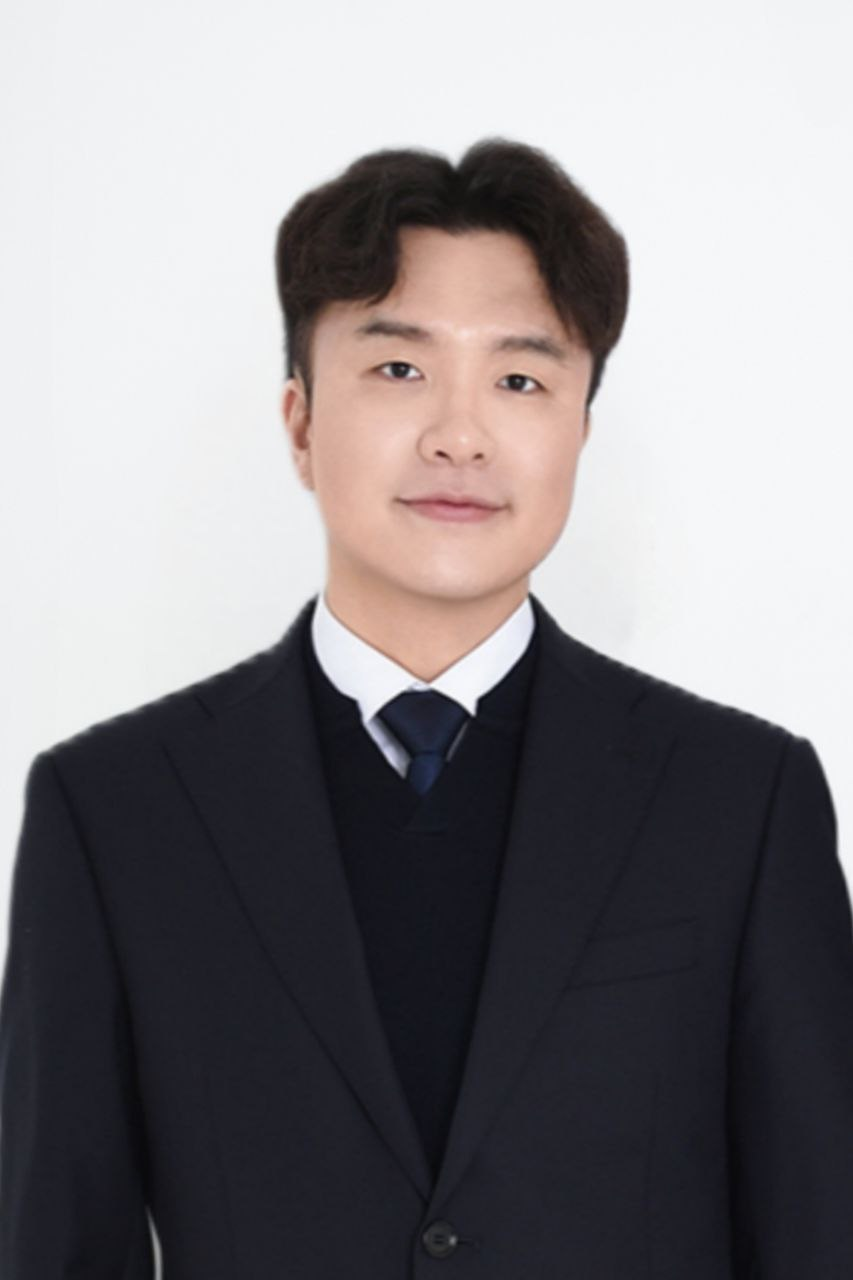
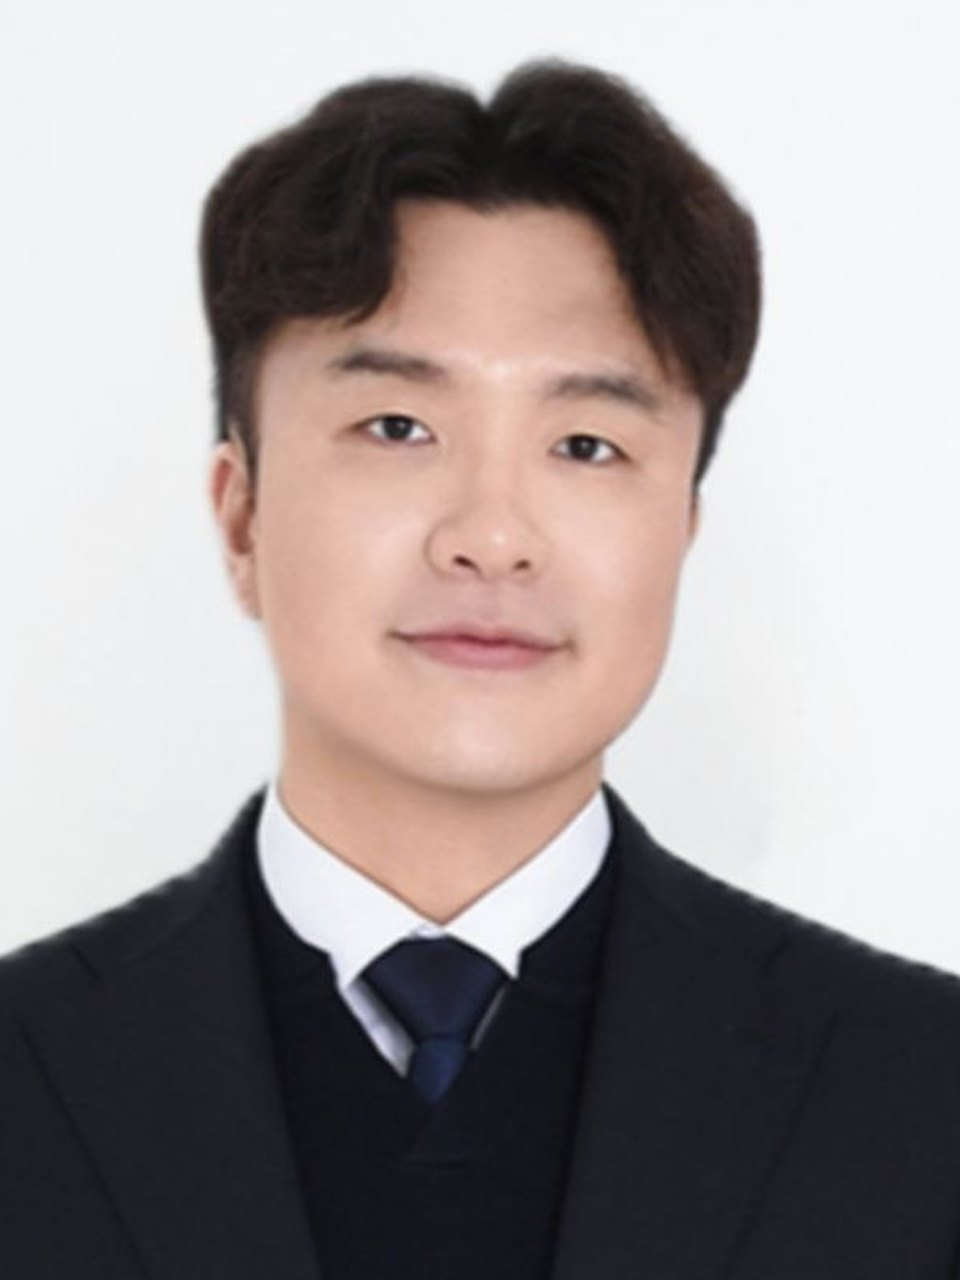
People 에 학부연구생 셋을 올린다 — 사진은 한 틀에 맞춘 사본으로
이세연 · 조성필 · 최우진(학부연구생). 명단은 사진 · 이름 · 직함 · 관심 주제 한 줄.
관심 주제는 연구실 분야에 맞춘 초안이라 학생이 정하면 people.ts 에서 고친다.

사진 — 증명사진은 프레임·얼굴 크기·눈높이가 제각각이라 그대로 두면 명단이 아니라
짜깁기로 보인다. scripts/fit-portrait.py 가 얼굴을 재서(macOS Vision, 로컬) 같은
3:4 틀에 얼굴 폭 0.53 · 눈높이 0.34 로 맞춘다. 배율이 얼굴로 정해지니 어깨도 그
사람 비율 그대로다. 교수님 사진도 같은 틀로 다시 냈다 — 원본 얼굴이 틀의 0.375 로
여유로워 그 기준으로 학생 사진을 축소하면 가슴 아래에 없는 부분을 늘려 채워야
했다(정장이 줄무늬가 됐다). OpenCV Haar 는 머리카락이 섞여 10% 넘게 흔들려 버렸다.

원본은 pic/ 에 두고 git 이 무시한다. verify 전부 · portrait:check · People JS 는
배경 도로 하나(변경 없음).

diff --git a/src/data/people.ts b/src/data/people.ts
@@ -23,6 +23,8 @@ export interface Person {
   experience?: CVEntry[];
   /** 연구 관심사 — research.ts 의 id 를 참조. */
   interests?: string[];
+  /** 관심 주제 — 학생은 연구분야 id 가 아니라 제 말로 적는다. 명단에 낱말 줄로 선다. */
+  topics?: I18nText[];
 }
 
 export const PI: Person = {
@@ -101,10 +103,53 @@ export const PI: Person = {
 };
 
 /**
- * 연구실은 2026년 3월 개설. 기존 사이트에 학생 명단이 없어 비어 있다.
- * 구성원이 생기면 여기에 추가하면 People 페이지에 자동으로 렌더된다.
+ * 연구실은 2026년 3월 개설. 첫 학부연구생 셋(2026.09). 사진은 `pic/` 의 원본을
+ * `scripts/fit-portrait.py` 로 교수님 사진과 같은 얼굴 폭·눈높이의 3:4 틀에 맞춘
+ * 사본이다 — 원본을 그대로 넣지 마라(프레임·얼굴 크기가 제각각이라 명단이 아니라
+ * 짜깁기로 보인다). 관심 주제는 학생과 상의한 문안이 아니라 연구실 분야에 맞춰 둔
+ * 초안이다 — 학생이 정하면 여기서 고친다.
  */
-export const MEMBERS: Person[] = [];
+/** 학부연구생 공통 직함. 학생이 더 생기면 같은 값을 쓴다. */
+const UNDERGRAD: I18nText = { en: 'Undergraduate Researcher', ko: '학부연구생' };
+
+export const MEMBERS: Person[] = [
+  {
+    id: 'lee-seyeon',
+    name: { en: 'Lee Seyeon', ko: '이세연' },
+    latin: 'Lee, S.',
+    role: UNDERGRAD,
+    photo: '/images/people/lee-seyeon.jpg',
+    topics: [
+      { en: 'Traffic simulation', ko: '교통 시뮬레이션' },
+      { en: 'Mixed autonomy traffic', ko: '자율주행 혼합교통' },
+      { en: 'Data-driven traffic analysis', ko: '교통 데이터 분석' },
+    ],
+  },
+  {
+    id: 'jo-sungpil',
+    name: { en: 'Jo Sungpil', ko: '조성필' },
+    latin: 'Jo, S.',
+    role: UNDERGRAD,
+    photo: '/images/people/jo-sungpil.jpg',
+    topics: [
+      { en: 'Reinforcement learning for signal control', ko: '강화학습 기반 신호 제어' },
+      { en: 'Ramp metering', ko: '램프 미터링' },
+      { en: 'Deep learning', ko: '딥러닝' },
+    ],
+  },
+  {
+    id: 'choi-woojin',
+    name: { en: 'Choi Woojin', ko: '최우진' },
+    latin: 'Choi, W.',
+    role: UNDERGRAD,
+    photo: '/images/people/choi-woojin.jpg',
+    topics: [
+      { en: 'Connected vehicles (V2X)', ko: 'V2X 커넥티드 차량' },
+      { en: 'Cooperative driving', ko: '협력 주행' },
+      { en: 'Vehicle trajectory data', ko: '차량 궤적 데이터' },
+    ],
+  },
+];
 
 export const ALUMNI: Person[] = [];
 

diff --git a/scripts/face-metrics.swift b/scripts/face-metrics.swift
@@ -1,0 +1,45 @@
+// 얼굴 상자와 두 눈의 위치를 JSON 으로 낸다 — macOS Vision(로컬, 네트워크 없음).
+//   swift scripts/face-metrics.swift <사진>
+// 좌표는 픽셀, 원점은 **왼쪽 위**(Vision 의 왼쪽 아래 정규 좌표를 뒤집는다).
+// Haar 캐스케이드는 상자에 머리카락·이마가 섞여 사람마다 들쭉날쭉했다 — 얼굴 크기를
+// 맞추는 기준으로 쓰기엔 편차가 컸다. Vision 의 상자는 얼굴(이마~턱, 볼~볼)에 붙는다.
+import Foundation
+import Vision
+import AppKit
+
+let args = CommandLine.arguments
+guard args.count >= 2, let img = NSImage(contentsOfFile: args[1]),
+      let cg = img.cgImage(forProposedRect: nil, context: nil, hints: nil) else {
+  FileHandle.standardError.write("cannot read image\n".data(using: .utf8)!)
+  exit(2)
+}
+let W = CGFloat(cg.width), H = CGFloat(cg.height)
+let req = VNDetectFaceLandmarksRequest()
+try VNImageRequestHandler(cgImage: cg, options: [:]).perform([req])
+guard let faces = req.results, !faces.isEmpty else {
+  FileHandle.standardError.write("no face\n".data(using: .utf8)!)
+  exit(3)
+}
+let f = faces.max(by: { $0.boundingBox.width < $1.boundingBox.width })!
+let b = f.boundingBox
+func px(_ p: CGPoint) -> [String: Double] {  // 얼굴 상자 안의 정규 좌표 → 픽셀(왼쪽 위 원점)
+  let x = (b.origin.x + p.x * b.width) * W
+  let y = (1 - (b.origin.y + p.y * b.height)) * H
+  return ["x": Double(x), "y": Double(y)]
+}
+func center(_ r: VNFaceLandmarkRegion2D?) -> [String: Double]? {
+  guard let r = r, r.pointCount > 0 else { return nil }
+  let pts = r.normalizedPoints
+  let mx = pts.map { $0.x }.reduce(0, +) / CGFloat(pts.count)
+  let my = pts.map { $0.y }.reduce(0, +) / CGFloat(pts.count)
+  return px(CGPoint(x: mx, y: my))
+}
+var out: [String: Any] = [
+  "w": Double(W), "h": Double(H),
+  "face": ["x": Double(b.origin.x * W), "y": Double((1 - b.origin.y - b.height) * H),
+           "w": Double(b.width * W), "h": Double(b.height * H)],
+]
+if let l = center(f.landmarks?.leftEye) { out["leftEye"] = l }
+if let r = center(f.landmarks?.rightEye) { out["rightEye"] = r }
+let data = try JSONSerialization.data(withJSONObject: out)
+print(String(data: data, encoding: .utf8)!)

diff --git a/scripts/fit-portrait.py b/scripts/fit-portrait.py
@@ -1,0 +1,153 @@
+#!/usr/bin/env python3
+"""
+인물 사진을 한 틀에 맞춘다 — 얼굴 크기와 눈높이가 전원 같아지게.
+
+  python3 scripts/fit-portrait.py <입력.jpg|png|heic> <출력.jpg> [--ref public/images/pi.jpg]
+
+증명사진은 사람마다 프레임·얼굴 크기·눈높이가 다르다. 그대로 나란히 놓으면
+한 사람은 크고 한 사람은 작아 명단이 아니라 짜깁기로 보인다. 이 스크립트는
+얼굴을 검출해 **기준 사진(교수님)** 과 같은 얼굴 폭·눈높이가 되도록 확대·축소하고
+같은 3:4 틀로 잘라 낸다. 얼굴에 맞춰 배율을 정하니 몸(어깨)도 그 사람의 비율
+그대로 따라간다 — 얼굴만 키우거나 어깨만 좁히는 일이 없다.
+
+틀을 벗어나는 자리는 **가장자리 픽셀을 늘려** 채우고 그 띠만 흐린다 — 단색으로
+채웠더니 증명사진 배경의 미세한 그라디언트와 어긋나 이음새가 선으로 보였다.
+
+얼굴·눈은 macOS Vision(`scripts/face-metrics.swift`, 로컬)으로 잰다. OpenCV Haar
+상자는 머리카락·이마가 섞여 사람마다 편차가 커서(같은 사진을 다시 재도 10% 넘게
+흔들렸다) 얼굴 크기를 맞추는 기준으로는 못 썼다. Vision 이 없으면 Haar 로 물러난다.
+
+기준값은 `--ref` 사진에서 매번 다시 잰다 — 숫자를 박아 두면 기준 사진을 바꿀 때
+어긋난다. 단, 지금 사이트의 넷은 `--face 0.53 --eye 0.34` 로 맞췄다: 교수님 원본은
+얼굴이 틀의 0.375 로 여유롭게 찍혔고 학생 사진들은 0.41~0.49 로 타이트해서, 교수님
+기준으로 맞추면 학생 사진을 **축소**해야 하고 가슴 아래에 없는 부분을 채워야 했다
+(늘린 정장이 줄무늬가 된다). 넷 중 가장 타이트한 사진이 채움 없이 들어가는 값이
+0.53 이고, 교수님 사진은 그만큼 더 확대·크롭했다. 새 구성원도 같은 값으로 낸다.
+"""
+import argparse
+import os
+import subprocess
+import sys
+import tempfile
+
+import cv2
+import numpy as np
+
+OUT_W, OUT_H = 960, 1280  # 3:4 — 사이트의 DotPortrait 비율
+
+CASC = cv2.CascadeClassifier(cv2.data.haarcascades + "haarcascade_frontalface_default.xml")
+EYES = cv2.CascadeClassifier(cv2.data.haarcascades + "haarcascade_eye.xml")
+
+
+def load(path: str) -> np.ndarray:
+    im = cv2.imread(path)
+    if im is None:
+        # HEIC 나 확장자만 jpeg 인 파일 — macOS sips 로 PNG 를 거친다.
+        tmp = tempfile.NamedTemporaryFile(suffix=".png", delete=False).name
+        subprocess.run(["sips", "-s", "format", "png", path, "--out", tmp], check=True, capture_output=True)
+        im = cv2.imread(tmp)
+        os.unlink(tmp)
+    if im is None:
+        sys.exit(f"읽을 수 없는 사진: {path}")
+    return im
+
+
+def face_of_vision(path: str):
+    """Vision 으로 (중심 x, 눈높이 y, 얼굴 폭). 실패하면 None."""
+    here = os.path.dirname(os.path.abspath(__file__))
+    r = subprocess.run(["swift", os.path.join(here, "face-metrics.swift"), path], capture_output=True, text=True)
+    if r.returncode != 0:
+        return None
+    import json
+
+    d = json.loads(r.stdout.strip().splitlines()[-1])
+    f = d["face"]
+    le, re = d.get("leftEye"), d.get("rightEye")
+    eye_y = (le["y"] + re["y"]) / 2 if le and re else f["y"] + f["h"] * 0.4
+    return f["x"] + f["w"] / 2, eye_y, float(f["w"])
+
+
+def face_of(im: np.ndarray, path: str | None = None):
+    """가장 큰 얼굴의 (중심 x, 눈높이 y, 얼굴 폭). Vision 우선, 없으면 Haar."""
+    if path is not None:
+        v = face_of_vision(path)
+        if v is not None:
+            return v
+    h, w = im.shape[:2]
+    g = cv2.cvtColor(im, cv2.COLOR_BGR2GRAY)
+    faces = sorted(CASC.detectMultiScale(g, 1.05, 6, minSize=(w // 8, w // 8)), key=lambda r: -r[2] * r[3])
+    if not faces:
+        sys.exit("얼굴을 찾지 못했다")
+    x, y, fw, fh = faces[0]
+    eyes = [e for e in EYES.detectMultiScale(g[y : y + fh, x : x + fw], 1.05, 5, minSize=(fw // 10, fw // 10)) if e[1] < fh * 0.6]
+    eye_y = (sum(e[1] + e[3] / 2 for e in eyes) / len(eyes) + y) if eyes else y + fh * 0.4
+    return x + fw / 2, eye_y, float(fw)
+
+
+def background(im: np.ndarray) -> tuple:
+    """위쪽 모서리 두 군데의 중앙값 — 증명사진의 배경색."""
+    h, w = im.shape[:2]
+    pad = max(4, w // 40)
+    patch = np.concatenate([im[pad : pad * 3, pad : pad * 3].reshape(-1, 3), im[pad : pad * 3, w - pad * 3 : w - pad].reshape(-1, 3)])
+    return tuple(int(v) for v in np.median(patch, axis=0))
+
+
+def fit(im: np.ndarray, face_w_rel: float, eye_rel: float, path: str) -> np.ndarray:
+    cx, eye_y, fw = face_of(im, path)
+    s = (face_w_rel * OUT_W) / fw  # 배율 — 얼굴 폭을 기준에 맞춘다
+    win_w, win_h = OUT_W / s, OUT_H / s
+    left = cx - win_w / 2
+    top = eye_y - eye_rel * win_h
+    # 틀이 사진 밖으로 나가는 만큼 배경색으로 덧댄다
+    h, w = im.shape[:2]
+    pad_l = max(0, int(np.ceil(-left)))
+    pad_t = max(0, int(np.ceil(-top)))
+    pad_r = max(0, int(np.ceil(left + win_w - w)))
+    pad_b = max(0, int(np.ceil(top + win_h - h)))
+    if pad_l or pad_t or pad_r or pad_b:
+        # 가장자리를 늘려 채우고, 늘린 띠만 흐려 줄무늬를 지운다. 원본 영역은 건드리지 않는다.
+        padded = cv2.copyMakeBorder(im, pad_t, pad_b, pad_l, pad_r, cv2.BORDER_REPLICATE)
+        k = max(31, (min(h, w) // 12) | 1)
+        blurred = cv2.GaussianBlur(padded, (k, k), 0)
+        mask = np.ones(padded.shape[:2], dtype=np.uint8)
+        mask[pad_t : pad_t + h, pad_l : pad_l + w] = 0
+        # 원본과 만나는 자리가 뚝 끊기지 않게 마스크 경계도 부드럽게
+        soft = cv2.GaussianBlur(mask.astype(np.float32), (k, k), 0)[..., None]
+        im = (padded.astype(np.float32) * (1 - soft) + blurred.astype(np.float32) * soft).astype(np.uint8)
+        left += pad_l
+        top += pad_t
+    crop = im[int(round(top)) : int(round(top + win_h)), int(round(left)) : int(round(left + win_w))]
+    interp = cv2.INTER_AREA if s < 1 else cv2.INTER_CUBIC
+    return cv2.resize(crop, (OUT_W, OUT_H), interpolation=interp)
+
+
+def main() -> None:
+    ap = argparse.ArgumentParser()
+    ap.add_argument("src")
+    ap.add_argument("dst")
+    ap.add_argument("--ref", default="public/images/pi.jpg", help="얼굴 폭·눈높이의 기준 사진")
+    ap.add_argument("--quality", type=int, default=86)
+    ap.add_argument("--face", type=float, help="틀 폭 대비 얼굴 폭. 주면 --ref 대신 이 값")
+    ap.add_argument("--eye", type=float, help="틀 높이 대비 눈높이. 주면 --ref 대신 이 값")
+    a = ap.parse_args()
+
+    if a.face is not None and a.eye is not None:
+        face_w_rel, eye_rel = a.face, a.eye
+    else:
+        ref = load(a.ref)
+        rh, rw = ref.shape[:2]
+        _, ref_eye, ref_fw = face_of(ref, a.ref)
+        # 기준 사진을 같은 3:4 틀로 볼 때의 비율 — 폭은 가로 기준, 눈높이는 3:4 높이 기준.
+        ref_win_h = rw * OUT_H / OUT_W
+        face_w_rel = a.face if a.face is not None else ref_fw / rw
+        eye_rel = a.eye if a.eye is not None else ref_eye / ref_win_h
+
+    out = fit(load(a.src), face_w_rel, eye_rel, a.src)
+    os.makedirs(os.path.dirname(os.path.abspath(a.dst)), exist_ok=True)
+    cv2.imwrite(a.dst, out, [cv2.IMWRITE_JPEG_QUALITY, a.quality])
+    cx, ey, fw = face_of(out, a.dst)
+    print(f"{a.dst}: {OUT_W}×{OUT_H} · 얼굴 폭 {fw / OUT_W:.3f} (기준 {face_w_rel:.3f}) · 눈높이 {ey / OUT_H:.3f} (기준 {eye_rel:.3f})")
+
+
+if __name__ == "__main__":
+    main()

diff --git a/AGENTS.md b/AGENTS.md
@@ -86,7 +86,7 @@ grep -rnE "\.arc\(" src/hooks src/components                        # 캔버스 
 |---|---|
 | 논문 추가 | `src/data/publications.ts` — 배열 맨 앞에 한 항목 |
 | 뉴스 추가 | `src/data/news.ts` |
-| 구성원 추가 | `src/data/people.ts` 의 `MEMBERS` |
+| 구성원 추가 | `src/data/people.ts` 의 `MEMBERS`. 사진은 원본을 `pic/`(git 무시)에 두고 `python3 scripts/fit-portrait.py pic/원본 public/images/people/<id>.jpg --face 0.53 --eye 0.34` 로 낸 사본만 넣는다 — 얼굴 폭·눈높이가 전원 같아진다(macOS Vision, 로컬) |
 | 강의 추가 | `src/data/teaching.ts` |
 | 연구분야 수정 | `src/data/research.ts` |
 | 연락처·주소 | `src/data/site.ts` |
